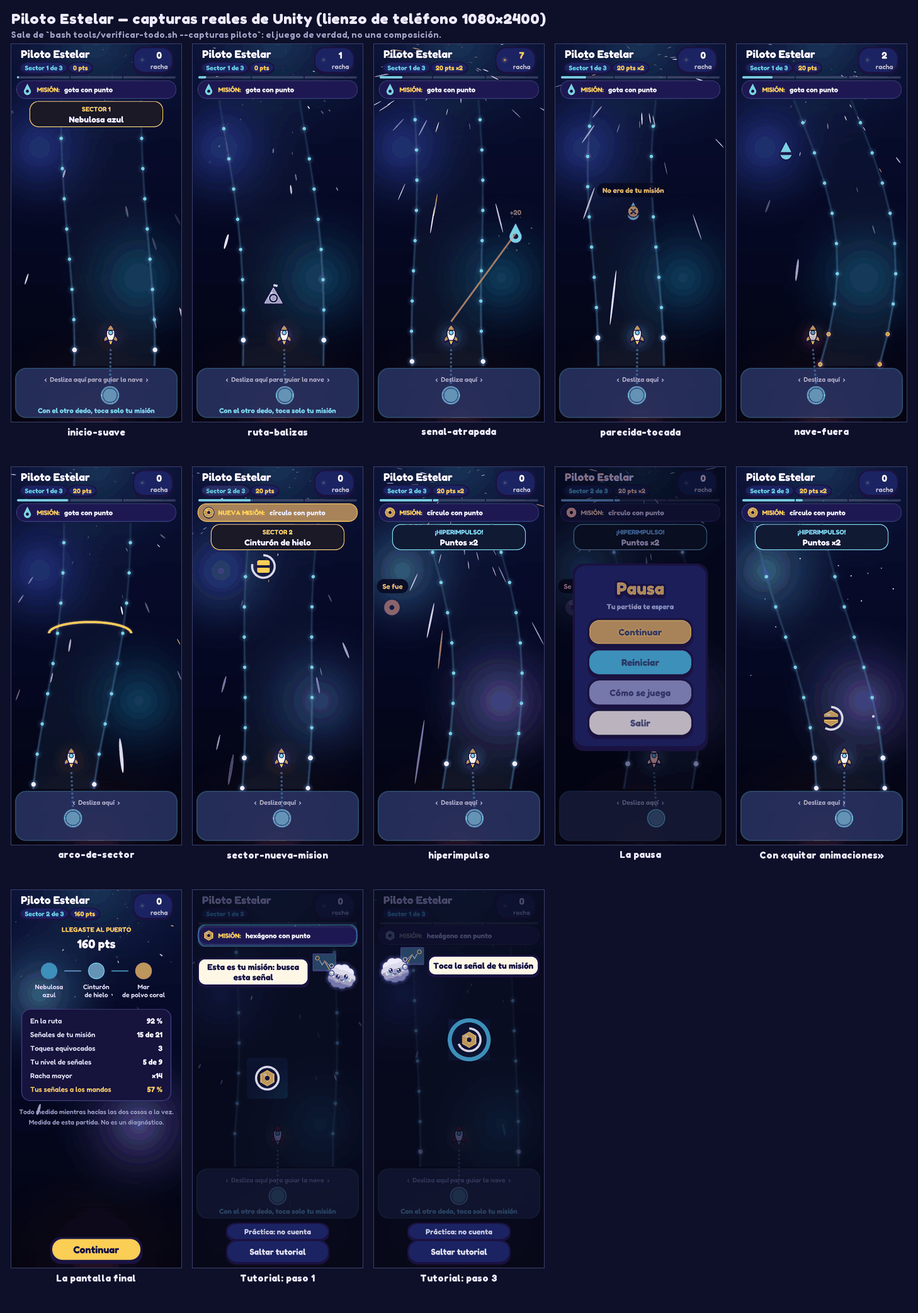
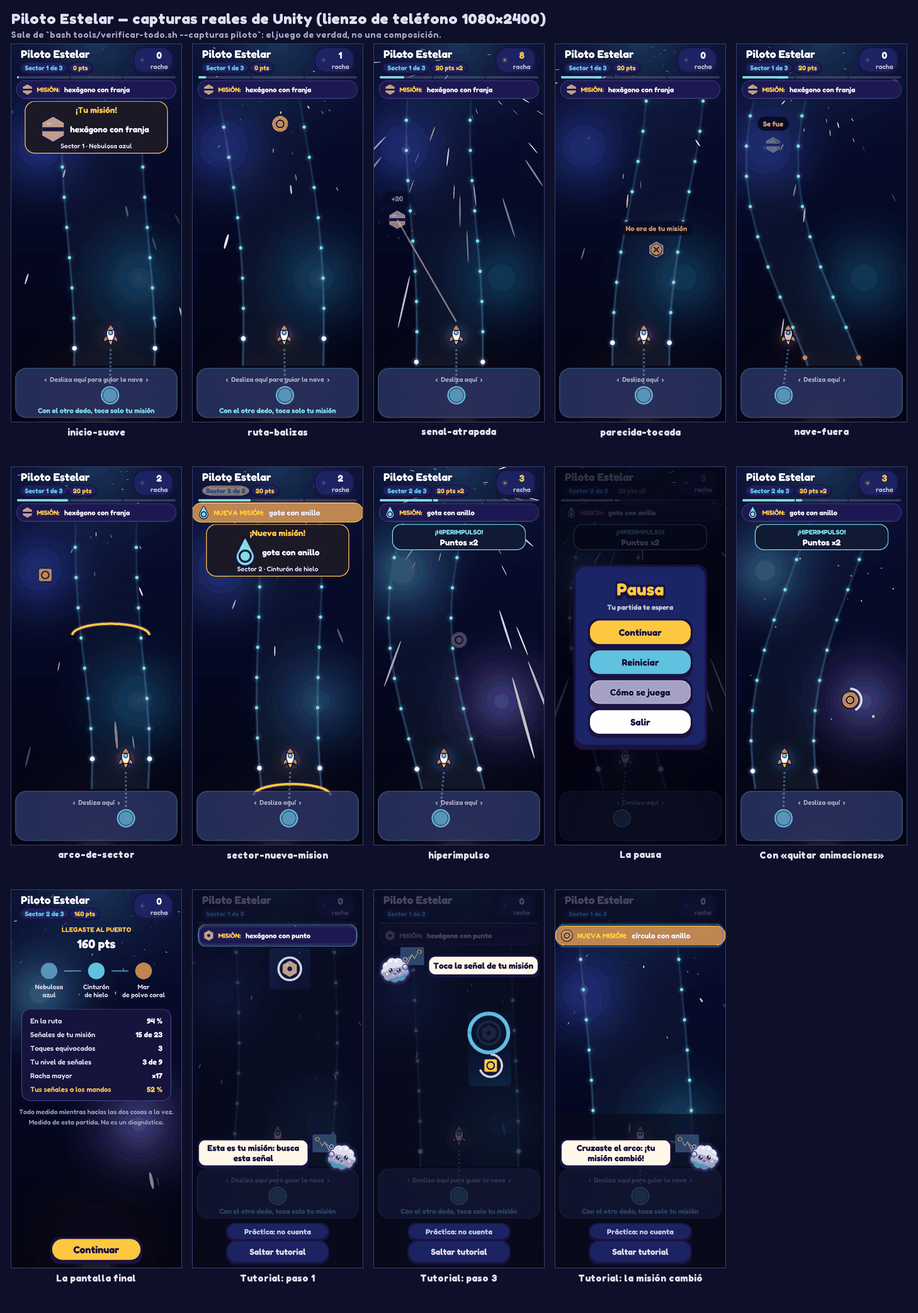
Piloto: el cambio de misión se nota + 2 detalles de Rescate (Tarea 63, 2 de 2): documentos y CLAUDE.md
docs/diseno-piloto.md §13 (aviso de misión nueva, latido, tono, tutorial), tutoriales con Nubi,
notas de capturas y del contador de Rescate, hojas de capturas reales de Piloto y Rescate.
CLAUDE.md: regla por patentes de Rescate «sin objetivo central con candidatas ni pedir la
ubicación (Posit US 8,348,671)», sello nuevo y 702 pruebas de Unity.

diff --git a/docs/tutoriales-con-nubi.md b/docs/tutoriales-con-nubi.md
@@ -33,7 +33,7 @@ achicándose si no cabía. Esto es el arreglo de sistema (no un parche por juego
 | ¿Verdad o disparate? (`disparate`, 9-oct) | la placa con la frase (en los pasos de los botones y en los avisos) y, en el del ritmo, la barra de señal (si el modo la tiene). «Saltar tutorial» va arriba: abajo están VERDAD y DISPARATE. 5 pasos con tres frases fijas: 1) «Si es verdad, toca VERDAD» (hueco: el botón), 2) «Si no tiene sentido, toca DISPARATE», 3) «Responde rápido, pero lo que cuenta es acertar» (Notice con la señal bajando), 4) «Si una frase no está clara, mantenla presionada» (Notice; en este juego no hay botón «no está clara»: es mantener la placa, y en la práctica no se anota), 5) «¡Listo! Ahora va en serio». Solo vale el botón que se pide; no pasa por el DDA ni la tabla. |
 | La estrella intrusa (`intrusa`, 9-oct) | en los avisos, las palabras y la figura se respetan solas (son texto); el hueco es la palabra intrusa (su área de toque, una caja invisible que sigue a la estrella) y, en el paso de mirar, toda la caja de la figura. Ejemplo fijo: cuatro frutas y un zapato, con la misma semilla siempre. 5 pasos: 1) «Cuatro estrellas comparten algo; una no» (Notice), 2) «Toca la intrusa», 3) «La chispa une las otras cuatro: son frutas» (Mirar: cae la intrusa, la chispa dibuja la figura y aparece su nombre), 4) «Cada figura que dibujas se guarda en tu atlas» (Notice), 5) «¡Listo! Ahora va en serio». No se anota en el atlas ni pasa por el DDA o el repaso. |
 | Satélites (`satelites`, 9-oct) | en el aviso «Algunos traen un mensaje» y en «Síguelos con la vista», los dos satélites con mensaje (aro dorado y sobre, quietos); el hueco de cada paso de Tocar es ese satélite (60 dp). Se practica en una ronda de 2 de 5 que no cuenta (lenta, sin sorpresas). **No lleva un foco de «Mirar»**: las órbitas ocupan todo el campo y Nubi y su globo no tendrían dónde ponerse sin tapar el juego (el smoke lo detectó: 159163 u² tapados); el aviso va con los satélites quietos y, cuando giran, la persona mira sola. El toque en el hueco lo recibe el paso y la ronda marca el satélite, sin bucles. |
-| Piloto Estelar — «la ruta de las balizas» (`piloto`, 9-oct) | en cada paso, la tarjeta de misión y las señales a la vista (una zona que cubre todas las señales vivas, o el cielo de señales si no hay ninguna): el globo de Nubi nunca tapa una señal (pedido de Ricardo). Hueco de los pasos de Mirar: la tarjeta de misión (paso 1) y la franja del dedo (paso 2); hueco del paso de Tocar: la señal de la misión (80 dp, el área de toque). Se practica en un vuelo que no cuenta (ruta ancha de nivel 1, nave a tres cuartos de velocidad, misión «hexágono con punto», señales cada ~4 s que duran 4 s). **Las dos tareas van juntas desde el paso 2**: nunca una pantalla de señales sola con conteo ni una ruta sin señales. 6 pasos: 1) «Esta es tu misión: busca esta señal» (Mirar la tarjeta, con una señal de ejemplo a la vista), 2) «Desliza aquí para guiar la nave» (Mirar la franja, con señales ya apareciendo; sigue tras 1,5 s guiando), 3) «Toca la señal de tu misión» (hueco redondo en la señal; el toque en el hueco lo recibe el paso y la práctica hace la atrapada), 4) «Las parecidas tienen otro detalle: no las toques» (Notice con una parecida a la vista), 5) «En cada sector cambia la misión» (Notice), 6) «¡Listo! Ahora va en serio». No pasa por los motores, la medida ni el guardado. |
+| Piloto Estelar — «la ruta de las balizas» (`piloto`, 9-oct) | en cada paso, la tarjeta de misión y las señales a la vista (una zona que cubre todas las señales vivas, o el cielo de señales si no hay ninguna): el globo de Nubi nunca tapa una señal (pedido de Ricardo). Hueco de los pasos de Mirar: la tarjeta de misión (paso 1) y la franja del dedo (paso 2); hueco del paso de Tocar: la señal de la misión (80 dp, el área de toque). Se practica en un vuelo que no cuenta (ruta ancha de nivel 1, nave a tres cuartos de velocidad, misión «hexágono con punto», señales cada ~4 s que duran 4 s). **Las dos tareas van juntas desde el paso 2**: nunca una pantalla de señales sola con conteo ni una ruta sin señales. 8 pasos: 1) «Esta es tu misión: busca esta señal» (Mirar la tarjeta, con una señal de ejemplo a la vista), 2) «Desliza aquí para guiar la nave» (Mirar la franja, con señales ya apareciendo; sigue tras 1,5 s guiando), 3) «Toca la señal de tu misión» (hueco redondo en la señal; el toque en el hueco lo recibe el paso y la práctica hace la atrapada), 4) «Las parecidas tienen otro detalle: no las toques» (Notice con una parecida a la vista), 5) «Al cruzar un arco dorado, cambia la misión» (Notice mientras un ARCO REAL sale arriba y se acerca; la nave y la ruta no se detienen), 6) «Cruzaste el arco: ¡tu misión cambió!» (Mirar la tarjeta, que late y brilla; hueco: la tarjeta; Tarea 63), 7) «Ahora toca una señal de la misión nueva» (hueco redondo en la señal de la misión nueva, «círculo con anillo»; toque real), 8) «¡Listo! Ahora va en serio». No pasa por los motores, la medida ni el guardado. |
 | Rescate relámpago — «qué cápsulas viste» (`radar`, 9-oct) | los pasos de Mirar rodean el radar (círculo, paso 1), la nave (paso 4) con el tablero a la vista, y el aviso de las rocas (paso 5) deja iluminados el tablero y «¡Rescatar!». Hueco de cada paso de Tocar: el botón de la cápsula que se vio (104 × 62 dp) y «¡Rescatar!». Se practica en dos rondas que no cuentan: 2 cápsulas sin rocas con un destello largo de 1200 ms y luego 2 cápsulas y 1 roca a 800 ms. **El tablero queda oculto en el paso 1** (aparece justo después del destello): así Nubi y su globo tienen dónde ponerse y no hay nada que mirar fuera del radar; los controles del tutorial van abajo y no pisan el tablero. 6 pasos: 1) «Mira el radar: un relámpago mostrará unas cápsulas», 2) «Toca en el tablero las que viste» (un paso de Tocar por cada cápsula, toque real), 3) «Ahora toca ¡Rescatar!» (toque real), 4) «¡Las rescatadas suben a tu nave!», 5) «Las rocas grises no se rescatan: no están en el tablero» (segunda práctica, contesta sola), 6) «¡Listo!». No pasa por el motor, las medidas ni el guardado. |
 | Freno de emergencia (`freno`) y Lluvia de meteoros (`meteoros`) | ninguna declarada: el hueco es lo único de lo que habla el texto; lo demás lo respeta la detección automática |
 

diff --git a/docs/respaldo-y-diagnostico.md b/docs/respaldo-y-diagnostico.md
@@ -65,7 +65,7 @@ Estos recorridos están cubiertos por `flow/GameFlowTest` (ViewModel y base de d
 - **Guardia de textos** (todas esas corridas): todo texto visible cae dentro de la pantalla y, si es hijo de un botón o una píldora, dentro de él; mide lo que se DIBUJA (no el rect entero) y solo informa un texto que queda fuera en dos revisiones seguidas. Hace FALLAR el smoke en cualquier juego;
   las únicas excepciones (rótulos que cuelgan a propósito de su imagen) están en `TextGuardExceptions` de `HeadlessPlaymodeSmokeTest.cs`.
   Desde el 8-oct (Tarea 54) la guardia tiene dos reglas más: **(1) letra ≥ 14 dp EXACTOS** (el tamaño efectivo —el del ajuste automático, por la escala del objeto— entre las unidades por dp del lienzo: 1080 de ancho = 360 dp, 42 unidades; excepciones solo en `TextSizeExceptions`, con su porqué: la marca de versión de la cuenta regresiva y Bitácora, retirada) y **(2) nada tapa el HUD** (`ScanHudCover`: todo lo visible que no es del HUD, del mismo lienzo y dibujado DESPUÉS de un texto del HUD, que cubra más de la cuarta parte de lo que ese texto dibuja; no cuentan los fondos, los velos, los destellos ni las piezas de foco del tutorial). Los avisos (`Toast`) van DEBAJO del marcador y, además (Tarea 55), NO tapan el juego: al mostrarse buscan la primera franja libre (`ToastPlacement`: no pisan ningún texto, botón ni el estímulo —imágenes con dibujo—, ni las zonas que el juego declara con `Toast.KeepOut`: el campo de los meteoros, la arena de Satélites, el radar…). Si en ese momento no hay franja (pantalla corta con el estímulo puesto), esperan «entre ensayos» hasta 4 s y entonces salen donde menos chocan. El smoke tiene corridas `Aviso*` (los juegos que usan el `Toast`, pantalla alta y baja) que MUESTRAN un aviso de prueba de dos renglones y comprueban que no tapa nada (`ScanToastCover`); excepciones con su porqué en `ToastCoverExceptions` (hoy solo Rumbo, que se rehace en la etapa 2; Piloto y Rescate relámpago tienen su propia guardia).  Lo que el smoke no ve (un texto que solo sale en cierta fase) lo cubre `HudRulesTests` mirando el CÓDIGO: ningún `MakeText`/`BestFit`/`CenteredText`/`AddResultText` con letra bajo 42 unidades, todos los juegos con aviso lo ponen debajo del HUD, los puntos de avance caben con 16 dp de margen y un aviso del tutorial no deja esquinas del foco anterior. Cada arranque deja su duración en el log (`[SmokeTest] tiempo …`).
-- **Capturas reales** (opcional, 8-oct): `bash tools/verificar-todo.sh --capturas todos` (los 19 juegos, ~18 min; o `--capturas Radar` (Rescate relámpago; el id sigue siendo `radar`) / `Radar,Freno`; Unity SIN `-nographics`, necesita tarjeta de video; no corre en el CI y no toca el smoke). `Bootstrap/Editor/ScreenshotRunner.cs` corre cada juego en forma de teléfono (1080×2400) y saca, SIN guion por juego: la primera pantalla jugable (cuando termina la cuenta regresiva), a los 8, 20 y 40 s de juego (donde el smoke tiene piloto automático: Engranajes, Bodega, Constelaciones y Correo, se juegan solos; los demás repiten su primera situación), la pausa, la cortina «¡Listo!» y la pantalla final si la partida llega a su fin, UNA toma con «quitar animaciones» y, en los juegos con tutorial, el paso 1 y el paso 3. Correo conserva su guion propio (`MailGameController.EditorShotScript`) y suelto (`--capturas Correo`) sigue dando `docs/previews/correo-estacion.png`. `tools/capturas/hoja.py` arma una lámina por juego en `docs/previews/capturas/<juego>.png` (con `todos`, también el índice `README.md` con fecha, commit y tiempos); `docs/previews/capturas/hallazgos.md` es la lista, hecha a mano, de lo que se ve mal a primera vista. Las tomas sueltas, los errores de consola de cada juego (`errores.txt`) y los tiempos (`_resumen.txt`) quedan en `unity/test-results/capturas/<juego>/` (fuera de git). Primera corrida completa (8-oct): 141 capturas en 17,5 min (≈ 55 s por juego).
+- **Capturas reales** (opcional, 8-oct): `bash tools/verificar-todo.sh --capturas todos` (los 19 juegos, ~18 min; o `--capturas Radar` (Rescate relámpago; el id sigue siendo `radar`) / `Radar,Freno`; Unity SIN `-nographics`, necesita tarjeta de video; no corre en el CI y no toca el smoke). `Bootstrap/Editor/ScreenshotRunner.cs` corre cada juego en forma de teléfono (1080×2400) y saca, SIN guion por juego: la primera pantalla jugable (cuando termina la cuenta regresiva), a los 8, 20 y 40 s de juego (donde el smoke tiene piloto automático: Engranajes, Bodega, Constelaciones y Correo, se juegan solos; los demás repiten su primera situación), la pausa, la cortina «¡Listo!» y la pantalla final si la partida llega a su fin, UNA toma con «quitar animaciones» y, en los juegos con tutorial, el paso 1 y el paso 3. Correo conserva su guion propio (`MailGameController.EditorShotScript`) y suelto (`--capturas Correo`) sigue dando `docs/previews/correo-estacion.png`. `tools/capturas/hoja.py` arma una lámina por juego en `docs/previews/capturas/<juego>.png` (con `todos`, también el índice `README.md` con fecha, commit y tiempos); `docs/previews/capturas/hallazgos.md` es la lista, hecha a mano, de lo que se ve mal a primera vista. Las tomas sueltas, los errores de consola de cada juego (`errores.txt`) y los tiempos (`_resumen.txt`) quedan en `unity/test-results/capturas/<juego>/` (fuera de git). Primera corrida completa (8-oct): 141 capturas en 17,5 min (≈ 55 s por juego). Tarea 63 (9-oct): mientras el guion espera con `Wait.*` el juego avanza muy pocos cuadros (se midieron 2 en 5 s), y la entrada de la pausa cuenta su tiempo por cuadro: la toma «pausa» salía a medio aparecer, desvaída y con los botones sin leerse (en Rescate relámpago y, según la corrida, en Piloto). `PauseShot` termina ahora la entrada de golpe (`PauseMenu.SettleForCapture`, solo en el Editor) y las tomas que esperan algo del juego (el aviso de misión nueva de Piloto) lo esperan por cuadros, no por segundos fijos; Piloto suma la toma `tutorial-nueva-mision` del paso 6 del tutorial.
 
 ## Pruebas de datos de los juegos de Lenguaje (movido de CLAUDE.md el 9-oct)
 

diff --git a/docs/diseno-piloto.md b/docs/diseno-piloto.md
@@ -43,8 +43,8 @@ Un dedo, en la franja de abajo, guía la nave por una ruta de balizas. El otro d
   - Toque a la señal más cercana dentro de 40 dp.
 - **Señal no atrapada:** si era de la misión, «Se fue» (cuenta como omisión); si no era, cuenta como acierto del motor, en silencio.
 - **Sectores:**
-  - Al cruzar el límite, un arco dorado sobre la ruta y el aviso «SECTOR N · nombre».
-  - La tarjeta de misión dice «NUEVA MISIÓN:» y se ilumina 1,6 s; la misión nueva es distinta de la anterior.
+  - Al cruzar el límite, un arco dorado sobre la ruta y el aviso de MISIÓN NUEVA (Tarea 63, ver §13): «¡Nueva misión!», la forma con su detalle dibujada grande, su nombre y «Sector N · nombre».
+  - La tarjeta de misión dice «NUEVA MISIÓN:», se ilumina 1,6 s y late dos veces (Tarea 63); la misión nueva es distinta de la anterior.
   - El cielo cambia de tinte (Nebulosa azul, Cinturón de hielo, Mar de polvo coral, Puerto lunar).
   - Nada se detiene.
 - **Hiperimpulso:** cada 5 señales bien resueltas seguidas, con ≥ 3 ventanas limpias de pilotaje: puntos × 2 durante 6 s, velocidad × 1,15 y estrellas en líneas.
@@ -99,7 +99,7 @@ Interpolación lineal entre filas (fórmulas en `src.html` del boceto: `P.speed`
   - zumbido fuera;
   - campana al atrapar;
   - golpe sordo al equivocarse;
-  - soplido y campanas al cambiar de sector.
+  - un soplido al cruzar el arco de un sector y, al cambiar la misión, dos notas que suben con timbre de triángulo (no de campana: no se confunde con la de atrapar; Tarea 63).
 - **«Quitar animaciones»:** sin temblor, sin estrellas en línea, sin parpadeo; balizas con brillo fijo.
 - **Toques:** franja del dedo de ≥ 100 dp de alto; toque de señal de 80 dp de diámetro.
 
@@ -116,8 +116,10 @@ Práctica que no cuenta (no alimenta motores ni medidas): ruta ancha, nave lenta
 2. «Desliza aquí para guiar la nave», con señales ya apareciendo despacio; las dos tareas a la vez desde este paso.
 3. Tocar una señal de la misión (hueco: la señal).
 4. Aviso «Las parecidas tienen otro detalle: no las toques».
-5. Aviso «En cada sector cambia la misión».
-6. «¡Listo!».
+5. Un ARCO de verdad sale arriba y se acerca mientras Nubi dice «Al cruzar un arco dorado, cambia la misión» (la nave y la ruta no se detienen); al cruzarlo la misión cambia.
+6. Nubi apunta a la tarjeta (hueco: la tarjeta, que late y brilla): «Cruzaste el arco: ¡tu misión cambió!».
+7. Aparece una señal de la misión NUEVA («círculo con anillo») y se toca con toque real: «Ahora toca una señal de la misión nueva».
+8. «¡Listo!». (Hasta la Tarea 62 el paso 5 era solo un aviso; Tarea 63.)
 
 Nunca una pantalla de señales sola con conteo, ni una ruta sin señales.
 
@@ -141,3 +143,13 @@ Nunca una pantalla de señales sola con conteo, ni una ruta sin señales.
 - **Motor**: un solo clip de un segundo en bucle cuyo tono sube con la velocidad; en hiperimpulso el tono sube un poco más (el filtro no se abre: un clip no puede cambiar su filtro).
 - **Pruebas**: `Games/Piloto/Tests` (contrato, ruta, nacimiento de señales, vuelo, pantalla en cuatro formas, motores, arte, sonido, y que no exista piloto automático ni `multitask_cost` en ninguna parte); smoke `Piloto` (Precisión), `PilotoReto`, `TutorialPiloto` (3 formas de teléfono, toque real en el hueco), `PantallaPiloto` y `HowToPiloto`.
 
+## 13. El cambio de misión se nota (Tarea 63, 9-oct)
+
+Ricardo probó el tutorial y una partida de 90 s y lo aprobó; lo único: «cuando pasa el arco de luz va cambiando el signo… de un comienzo no lo noté muy bien» (lo entendió jugando). El cambio se anunciaba arriba, en la tarjeta y el nombre del sector, mientras la vista está abajo, en la nave y las señales. Ahora:
+
+- **Aviso de misión nueva** (reemplaza al aviso de «SECTOR N · nombre»): arriba «¡Nueva misión!» (18 dp; en el sector 1, donde nada cambió, «¡Tu misión!»), al medio la forma con su detalle dibujada a 52 dp con su nombre («círculo con punto», 18 dp) y abajo «Sector N · nombre» (14 dp). Dura 2,2 s, aprovechando la ventana sin señales nuevas (no nacen señales 2,2 s antes del arco). Va en el mismo lugar fijo de arriba que el aviso corto, bajo la tarjeta de misión, pero **más alto**: `PilotPlan.NoticeBox` (112 dp, de 30 a 330 dp de ancho) contra los 52 dp de `BannerBox`, que queda para el hiperimpulso. El cielo de señales NO se achica: el rectángulo solo es zona prohibida mientras el aviso está a la vista o en espera (misma guardia: ninguna señal debajo, `GuardNotices` en el Editor; los textos flotantes tampoco lo pisan).
+- **Tarjeta de misión:** al cambiar late dos veces (escala 1 → 1,12 → 1, dos latidos de 0,4 s = 0,8 s, `PilotContract.MissionPulseScale`), además del brillo dorado de siempre; la tarjeta es un solo objeto centrado en sí mismo (`_missionCard`) para que lata alrededor de su centro. Con «quitar animaciones»: sin latido, queda el brillo fijo y el tono.
+- **Tono propio:** `PilotSounds.MissionChange`, dos notas que suben (mi y si agudos, una por latido) con timbre de triángulo y caída rápida; el soplido del arco (`Whoosh`) ya no lleva las dos campanas que tenía.
+- **Tutorial:** pasos 5 a 7 de §10: un arco real que cruza la práctica, la tarjeta señalada por Nubi y una señal de la misión nueva para tocar (toque real). Las dos tareas siguen juntas (regla permanente 1). En la práctica no sale el aviso alto: Nubi y su globo ocupan esa zona y la explicación va en el globo; el aviso se ve en el vuelo de verdad.
+- **Nada se detiene:** ni la nave ni la ruta, ni en el vuelo ni en la práctica.
+- **Pruebas:** contrato (`PilotRunTests`: alto y lugar del aviso en cuatro formas de teléfono, textos, latido), nacimiento de señales (`ASignalNeverBornUnderTheMissionNotice`), sonido; el smoke de Piloto (la guardia de avisos) y `TutorialPiloto` en las tres formas de pantalla con toque real en cada paso de Tocar. Capturas: `sector-nueva-mision` y `tutorial-nueva-mision` en `docs/previews/capturas/piloto.png`.

diff --git a/CLAUDE.md b/CLAUDE.md
@@ -20,7 +20,7 @@ El diario detallado de cómo se llegó hasta aquí (decisiones, bugs, pedidos de
   Salida corta; los logs completos van a `unity/test-results/v-*.log`. Modos para iterar: ver «Cómo trabajar una tarea de un juego».
 - `unity/AndroidExport/` está fuera de git: si no se reexporta, el APK lleva los juegos viejos sin avisar.
   Marca de verificación: en builds de depuración la cuenta regresiva muestra `CountdownScreen.StyleStamp`
-  (hoy `estilo 9-oct · rescate de cápsulas`). **Cambiarla con cada cambio visible de Unity.**
+  (hoy `estilo 9-oct · nueva misión`). **Cambiarla con cada cambio visible de Unity.**
 - Vistas previas sin Unity ni teléfono: `tools/art-preview` (compila los generadores de sprites REALES y vuelca PNG; `correo.py`, `satelites.py`… arman las láminas de piezas) y `tools/previews/*.py` (réplicas PIL de pantallas Compose); resultados en `docs/previews/`. Si se cambia el arte, actualizar la lámina. **Capturas REALES**: `bash tools/verificar-todo.sh --capturas todos` (los 19 juegos, ~18 min; necesita tarjeta de video; láminas en `docs/previews/capturas/`; detalle en `docs/respaldo-y-diagnostico.md`).
 - Estilo con Ricardo: español, sin jerga, cambios chicos y verificables, y decirle siempre qué probar.
 - Qué sigue y en qué orden (la ruta por etapas que Ricardo aprobó el 8-oct): [`docs/hoja-de-ruta.md`](docs/hoja-de-ruta.md).
@@ -139,7 +139,7 @@ Lenguaje con diseño propio y los demás en `docs/juegos/<id>.md` ([catálogo y 
 - **Licencias**: mecánicas genéricas, pero nombres, arte, textos y sonidos propios (no copiar a Lumosity & co.). Las tipografías (OFL 1.1) llevan su aviso y el texto completo de la licencia en «Licencias y créditos» (`res/raw/ofl.txt`).
 - **Decisiones de Ricardo**: servidores, cuentas, Firebase, suscripciones y requisitos de tiendas se dejan para el
   FINAL. La app debe ser masiva, social y motivadora (ligas, logros, compartir), no clínica.
-- **Reglas por patentes** (no romper; números y razones: [docs/nombre-marca-y-riesgos.md](docs/nombre-marca-y-riesgos.md)): Radar es «Rescate relámpago» (sin nave central ni opciones entre las que elegir); Piloto nunca con inclinación ni sensores del cuerpo; ningún juego calcula un perfil «impulsivo / conservador» ni usa caras con emociones que reaccionen al desempeño; Parejas siempre con el tablero a la vez; Satélites siempre plano, sin respuesta durante el seguimiento y sin «firma» por series; las etapas de avance en la escala común; nombres propios, sin los ajenos (UFOV, Double Decision, NeuroTracker…).
+- **Reglas por patentes** (no romper; números y razones: [docs/nombre-marca-y-riesgos.md](docs/nombre-marca-y-riesgos.md)): Rescate relámpago: sin objetivo central con candidatas ni pedir la ubicación (Posit US 8,348,671); Piloto nunca con inclinación ni sensores del cuerpo; ningún juego calcula un perfil «impulsivo / conservador» ni usa caras con emociones que reaccionen al desempeño; Parejas siempre con el tablero a la vez; Satélites siempre plano, sin respuesta durante el seguimiento y sin «firma» por series; las etapas de avance en la escala común; nombres propios, sin los ajenos (UFOV, Double Decision, NeuroTracker…).
 - **Reglas permanentes (Ricardo, 9-oct)**: (1) Piloto: pilotar y señales siempre JUNTAS (ninguna sola ni medida sola; sin «costo de multitarea»; el tutorial las enseña juntas; se cumple desde la Tarea 61). (2) Rescate relámpago: se responde QUÉ se vio, no DÓNDE (sin lugares fijos ni cuadrícula; la zona del destello nunca crece con el nivel); **se cumple desde la Tarea 62**. (3) Los juegos viven en el APK: una cuenta o nube solo sincroniza progreso, nunca entrega ni desbloquea juegos ni controla su acceso desde un servidor; sin red social dentro de un mapa; toda función en línea que toque el acceso a juegos pasa antes por el abogado.
 
 ## Cuando Android cierra la app, respaldo y verificación automática (resumen; detalle en [docs/respaldo-y-diagnostico.md](docs/respaldo-y-diagnostico.md))
@@ -161,7 +161,7 @@ Lenguaje con diseño propio y los demás en `docs/juegos/<id>.md` ([catálogo y 
   recorridos del ViewModel en `flow/`, lo guardado en disco en `bridge/`, migraciones y respaldo). Las pruebas con
   Robolectric que crean el ViewModel, el repositorio o leen la base llaman `TestSupport.resetDatabase()` en `@Before` y `@After` (Room EN MEMORIA, nunca `neurovida_database`) y SUELTAN lo creado con `TestSupport.release(...)`
   (cancela y ESPERA su trabajo de fondo); `NoDiskDatabaseGuardTest` falla si falta. Detalle: [docs/respaldo-y-diagnostico.md](docs/respaldo-y-diagnostico.md).
-- Unity EditMode: 698 (contratos de cada juego, DDA común, tutoriales guiados, `CoachLayoutTests`…) + 110 arranques de smoke (juegos, versiones cortas, tutoriales en 3 formas de pantalla y corridas «Pantalla…» en forma de teléfono, todos con la **guardia de textos**: un texto fuera de lugar falla el smoke; detalle y excepciones en [docs/respaldo-y-diagnostico.md](docs/respaldo-y-diagnostico.md)).
+- Unity EditMode: 702 (contratos de cada juego, DDA común, tutoriales guiados, `CoachLayoutTests`…) + 110 arranques de smoke (juegos, versiones cortas, tutoriales en 3 formas de pantalla y corridas «Pantalla…» en forma de teléfono, todos con la **guardia de textos**: un texto fuera de lugar falla el smoke; detalle y excepciones en [docs/respaldo-y-diagnostico.md](docs/respaldo-y-diagnostico.md)).
 - Datos de los juegos de Lenguaje: pruebas de Python en `tools/` (`python -m unittest <módulo>`); detalle en [docs/respaldo-y-diagnostico.md](docs/respaldo-y-diagnostico.md) § «Pruebas de datos».
 - Herramientas: botones "[Debug]" (`ui/screens/DebugTools.kt`, solo builds de depuración) para abrir cada juego,
   ver las celebraciones y repetir el inicio sin borrar datos. "Borrar datos" en Ajustes deja la app como recién instalada.

diff --git a/docs/diseno-rescate.md b/docs/diseno-rescate.md
@@ -218,4 +218,5 @@ Rescate entra en `TUTORIAL_GAMES` con Piloto ya sumado. Se siguen `docs/tutorial
 - **Pruebas:** 33 en Unity (`RadarContractTests`: 10.000 semillas con 6 objetos, posiciones continuas, radio fijo en los 12 niveles, mismos colores y contraste, tablero de orden fijo, `Needed`/éxito, captura, lluvia fija de 300 ms; `RadarRunTests`: partida, medidas, pantalla en cuatro formas de teléfono, arte, sonido y telemetría sin ningún dato de lugar) y las de Kotlin (`RescateTest`, `RescateRecordTest`, el respaldo de `rescate_record` en `BackupRulesTest`, las del tutorial en `TrailTelemetryTest`/`DailyPathTest`/`PuntaPendingTest` y la captura `RescateResultScreenshotTest`).
 - **Telemetría nueva** (sin ningún dato por lugar): `glance_ms`, `glance_load`, `capture`, `resc_rescued`, `resc_perfect`, `resc_rounds`, `resc_best_streak`, `resc_shortest_ms`, `resc_best`, `resc_new`; la app manda `resc_best` (récord guardado en `rescate_record`) y, solo en depuración, `resc_stage`.
 - **Final en la app** (`GameResultScreen`): las cápsulas rescatadas en filas de 8 (hasta 40, con las seis formas en orden: la cantidad se lee por el número y no por el color), «N cápsulas a salvo», rondas perfectas y racha, el destello más corto resuelto, el récord, «Tu vistazo» y «Tu captura: X de 4» con sus discos. El título «¡RESCATE COMPLETO!» y el confeti los pone el cierre del juego en Unity.
+- **Contador de cápsulas (Tarea 63).** El contador de arriba, las cápsulas de la nave y «N cápsulas a salvo» salen de tres cuentas (cada cápsula rescatada sube y suma una vez; el total de la partida suma los aciertos de cada ronda). En una partida real siempre coinciden. En la toma «final» no coincidían (28 contra 40) porque el guion de capturas suma rondas de golpe sin hacer subir las cápsulas: ahora el guion completa la nave con las que faltan, y el juego, en el Editor, escribe un error de consola (y falla el smoke) si al terminar las tres cuentas no son iguales.
 - **Piezas de arte:** `docs/previews/rescate-piezas.png` (script `tools/art-preview/radar.py`, sprites reales); pantallas reales: `docs/previews/capturas/radar.png`.

diff --git a/docs/previews/capturas/README.md b/docs/previews/capturas/README.md
@@ -16,10 +16,10 @@ Corrida completa: 1056 s · 141 capturas · 19 juegos.
 | Rumbo a Casa (`rumbo`) | [rumbo.png](rumbo.png) | 6 | 52 s | sin errores de consola |
 | La estación de correo (`correo`) | [correo.png](correo.png) | 13 | 52 s | sin errores de consola |
 | Tinta o Palabra (`stroop`) | [stroop.png](stroop.png) | 8 | 59 s | sin errores de consola |
-| Piloto Estelar (`piloto`) | [piloto.png](piloto.png) | 6 | 49 s | sin errores de consola |
+| Piloto Estelar (`piloto`, guion propio; Tarea 63: aviso de misión nueva y paso nuevo del tutorial) | [piloto.png](piloto.png) | 14 | 79 s | sin errores de consola |
 | Freno de Emergencia (`freno`) | [freno.png](freno.png) | 8 | 61 s | sin errores de consola |
 | Satélites (`satelites`, renovado el 9-oct: guion propio) | [satelites.png](satelites.png) | 12 | 74 s | sin errores de consola |
-| Rescate relámpago (`radar`, renovado el 9-oct: guion propio) | [radar.png](radar.png) | 12 | 63 s | sin errores de consola |
+| Rescate relámpago (`radar`, renovado el 9-oct: guion propio) | [radar.png](radar.png) | 12 | 62 s | sin errores de consola |
 | Acoplamiento (`acoplamiento`) | [acoplamiento.png](acoplamiento.png) | 6 | 49 s | sin errores de consola |
 | Carga exacta (`calculo`) | [calculo.png](calculo.png) | 8 | 55 s | sin errores de consola |
 | Aterrizaje Lunar (`aterrizaje`) | [aterrizaje.png](aterrizaje.png) | 8 | 71 s | sin errores de consola |
